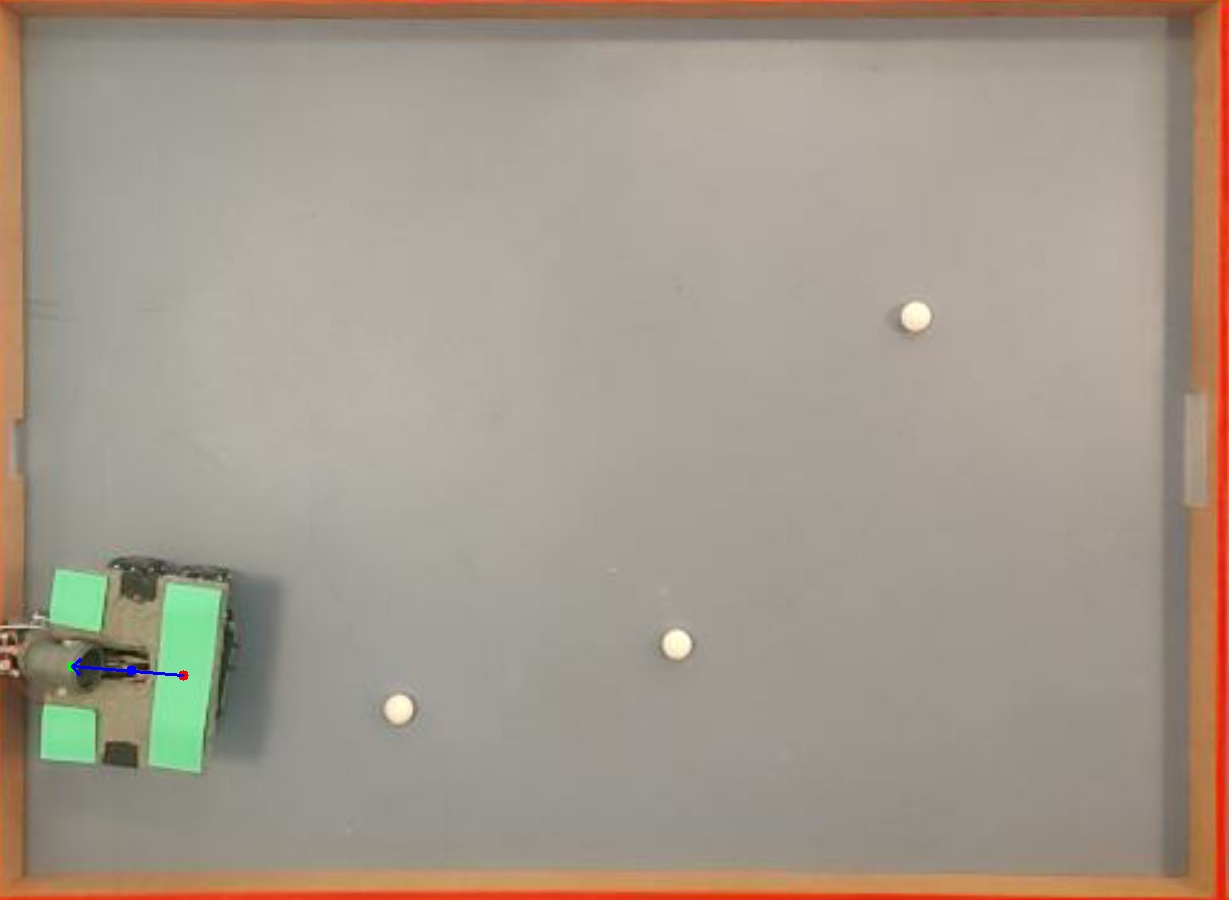
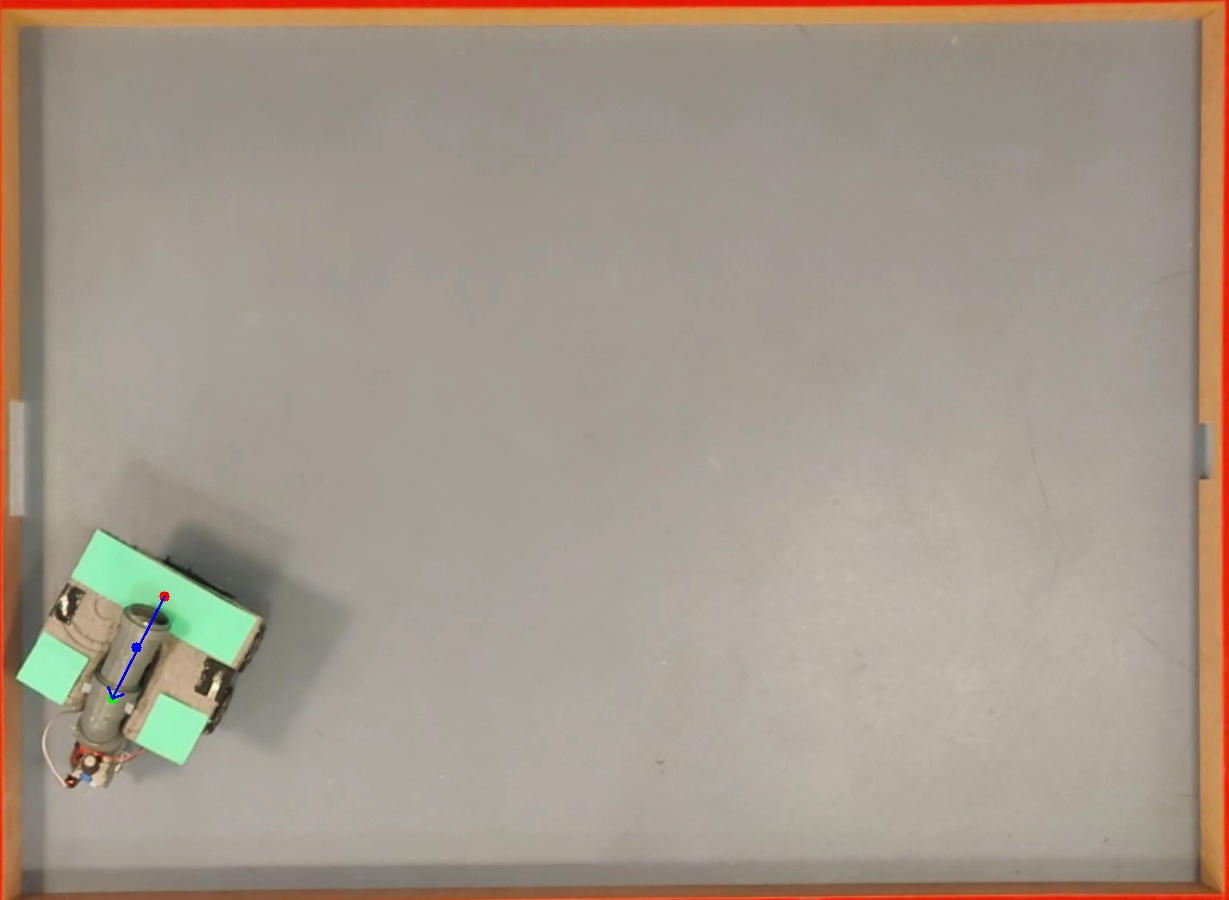
Samlede 4 bolde op med det her.

diff --git a/picture/image_detection.py b/picture/image_detection.py
@@ -209,8 +209,8 @@ def detect_ball_colors(image):
     red_upper = np.array([15, 227, 255], np.uint8) #HSV_old  9, 255, 255
     red_mask = cv2.inRange(hsvFrame, red_lower, red_upper) 
 
-    orange_lower = np.array([5, 156, 184], np.uint8) #HSV_old 11, 152, 154
-    orange_upper = np.array([34, 253, 255], np.uint8) #HSV_old 50, 255, 255
+    orange_lower = np.array([13, 135, 223], np.uint8) #HSV_old 5, 156, 184
+    orange_upper = np.array([44, 255, 255], np.uint8) #HSV_old 50, 255, 255
     orange_mask = cv2.inRange(hsvFrame, orange_lower, orange_upper) 
 
     """
@@ -271,7 +271,7 @@ def detect_ball_colors(image):
     res_orange = cv2.bitwise_and(image, image, 
                                 mask = orange_mask) 
       
-
+    
     
     # For blue color 
     # blue_mask = cv2.dilate(blue_mask, kernel) 
@@ -450,22 +450,22 @@ def detect_ball_colors(image):
                         cv2.FONT_HERSHEY_SIMPLEX, 
                         1.0, (0, 255, 0)) 
             
-    # # Creating contour to track yellow color 
-    contours, hierarchy = cv2.findContours(yellow_mask, 
-                                           cv2.RETR_TREE, 
-                                           cv2.CHAIN_APPROX_SIMPLE) 
-    for pic, contour in enumerate(contours): 
-        area = cv2.contourArea(contour) 
-        if(area > 800): 
-            x, y, w, h = cv2.boundingRect(contour) 
-            image = cv2.rectangle(image, (x, y), 
-                                       (x + w, y + h), 
-                                       (0, 0, 0), 2) 
-            print(f"(yellow x={x}, y={y}) w={w} h={h} area={area}")
-            # line_drawForPat(image, x, y, w, h, area)
-            cv2.putText(image, "yellow Colour", (x, y), 
-                        cv2.FONT_HERSHEY_SIMPLEX, 
-                        1.0, (0, 0, 0)) 
+    # # # Creating contour to track yellow color 
+    # contours, hierarchy = cv2.findContours(yellow_mask, 
+    #                                        cv2.RETR_TREE, 
+    #                                        cv2.CHAIN_APPROX_SIMPLE) 
+    # for pic, contour in enumerate(contours): 
+    #     area = cv2.contourArea(contour) 
+    #     if(area > 800): 
+    #         x, y, w, h = cv2.boundingRect(contour) 
+    #         image = cv2.rectangle(image, (x, y), 
+    #                                    (x + w, y + h), 
+    #                                    (0, 0, 0), 2) 
+    #         print(f"(yellow x={x}, y={y}) w={w} h={h} area={area}")
+    #         # line_drawForPat(image, x, y, w, h, area)
+    #         cv2.putText(image, "yellow Colour", (x, y), 
+    #                     cv2.FONT_HERSHEY_SIMPLEX, 
+    #                     1.0, (0, 0, 0)) 
 
 
 
@@ -514,7 +514,9 @@ def match_circles_and_contours(image, orange_detected, white_detected):
 
             
     
-    
+    #print(f"Whiteballs: {white_balls}\nOrangeballs: {orange_balls}")
+
+
     saveOrange_balls(orange_balls)
     saveWhite_balls(white_balls)
 
@@ -625,21 +627,21 @@ def find_carv2(image, output_image_path='output_image.jpg'):
     max_area = 0
     
     # Filter out very small contours (noise)
-    min_contour_area = 100  # Adjust this threshold as needed
+    min_contour_area = 200  # Adjust this threshold as needed
     valid_contours = [contour for contour in contours if cv2.contourArea(contour) > min_contour_area]
     for contour in valid_contours:
         area = cv2.contourArea(contour)
-        #print(f"Contour area: {area}")  # Debug: Print contour area
+        # print(f"Contour area: {area}")  # Debug: Print contour area
         #Vi får 3 tal, i en vilkårlig rækkefølge. de to små skal appendes til front, den største skal være lig back_contour
         if area > 4000:
             back_contour = contour
         else:
             front_contours.append(contour)
         
-    
+   
     # Debug: Log the largest contour area and number of front contours
-    #print(f"Largest contour area (back contour): {max_area}")
-    #print(f"Number of front contours: {len(front_contours)}")
+    # print(f"Largest contour area (back contour): {cv2.contourArea(back_contour)}")
+    # print(f"Number of front contours: {len(front_contours)}")
     
     # Ensure we have exactly one back contour and two front contours
     if len(front_contours) != 2:
@@ -677,11 +679,11 @@ def find_carv2(image, output_image_path='output_image.jpg'):
     front_y //= 2
     
     # Calculate the angle
-    angle_rad = math.atan2(back_y - front_y, front_x - back_x)
+    angle_rad = math.atan2(front_y - back_y, front_x - back_x)
     
     angle_deg = math.degrees(angle_rad)
 
-    angle_deg = (angle_deg+90)%360 
+    angle_deg = (angle_deg)%360 
 
     #if angle_deg < 0:
     #    angle_deg += 360
@@ -701,7 +703,7 @@ def find_carv2(image, output_image_path='output_image.jpg'):
     data = [[center_x, center_y, angle_deg]]
     with open('robot.json', 'w') as json_file:
         json.dump(data, json_file)
-
+    #exit()
     return (center_x, center_y, angle_deg)
 
 

diff --git a/algorithm/move_to_targetv2.py b/algorithm/move_to_targetv2.py
@@ -60,8 +60,10 @@ def move_to_targetv2(target_position):
 
     # De-structure the target position
     target_x, target_y = target_position
-    position_threshold = 185 #gammel 190
-    angle_threshold = 11
+    #Hvis vi kører for langt sæt den op kører for kort sæt den ned
+    position_threshold = 176 
+    #Virker nu!!!!!!!!
+    angle_threshold = 4
     
     
     # Load car values into the car object
@@ -73,8 +75,13 @@ def move_to_targetv2(target_position):
     # Calculate distance and desired angle
     distance = math.sqrt((target_x - current_x) ** 2 + (target_y - current_y) ** 2)
     
-    desired_angle = (math.degrees(math.atan2(target_y - current_y, target_x - current_x))-90) % 360
-    print(f"Desired angle:{desired_angle}\n")
+    desired_angle_rad = math.atan2(target_y-current_y, target_x-current_x)
+    print(f"Desired angle in rad: {desired_angle_rad}")
+    desired_angle =  math.degrees(desired_angle_rad)
+    desired_angle = desired_angle % 360
+
+
+    print(f"Desired angle in degrees:{desired_angle}\n")
     
 
     
@@ -92,7 +99,7 @@ def move_to_targetv2(target_position):
     print(f"angle error: {abs(angle_error)}\n")
     if abs(angle_error) > angle_threshold:
         angle_correction = angle_pid.calculate(0, angle_error)
-        if angle_error > 180:#Der forventes at skulle skrues her: 
+        if angle_error > 0:#Der forventes at skulle skrues her: 
             publish_controller_data((0, 0, max(0.12, min(angle_correction, 1)), 0, 0))  # Tilt right
         else:
             publish_controller_data((0, 0, max(-0.12, min(angle_correction, -1)), 0, 0))  # Tilt left

diff --git a/run.py b/run.py
@@ -67,12 +67,9 @@ try:
             image = camera_handler._run_video()
             image = transform(image)
             car = find_carv2(image)
-            #---- her forventes der at være 4 json filer: -------
-            # nogo_zones, ping_pong_balls, orange_ball og robot
-            # ---------------------------------------------------
-            # Herfra mangles: 
-            # algoritme som henter data fra .json filerne og så bevæger bilen
             check = move_to_targetv2(SortByDistance())
+            cv2.imshow("LiveV2",image)
+            # exit()
             
 finally:
     # Ensure the camera is released properly

diff --git a/algorithm/algorithm.py b/algorithm/algorithm.py
@@ -37,6 +37,7 @@ def LoadOrangeBall(filename="orangeballs.json"):
         OrangeBallXY = tuple(data[0])
     else:
         print("orange goone")
+        return (0,0)
         #return (0,0)
         #raise ValueError("Invalid JSON structure or data not found.")
     
